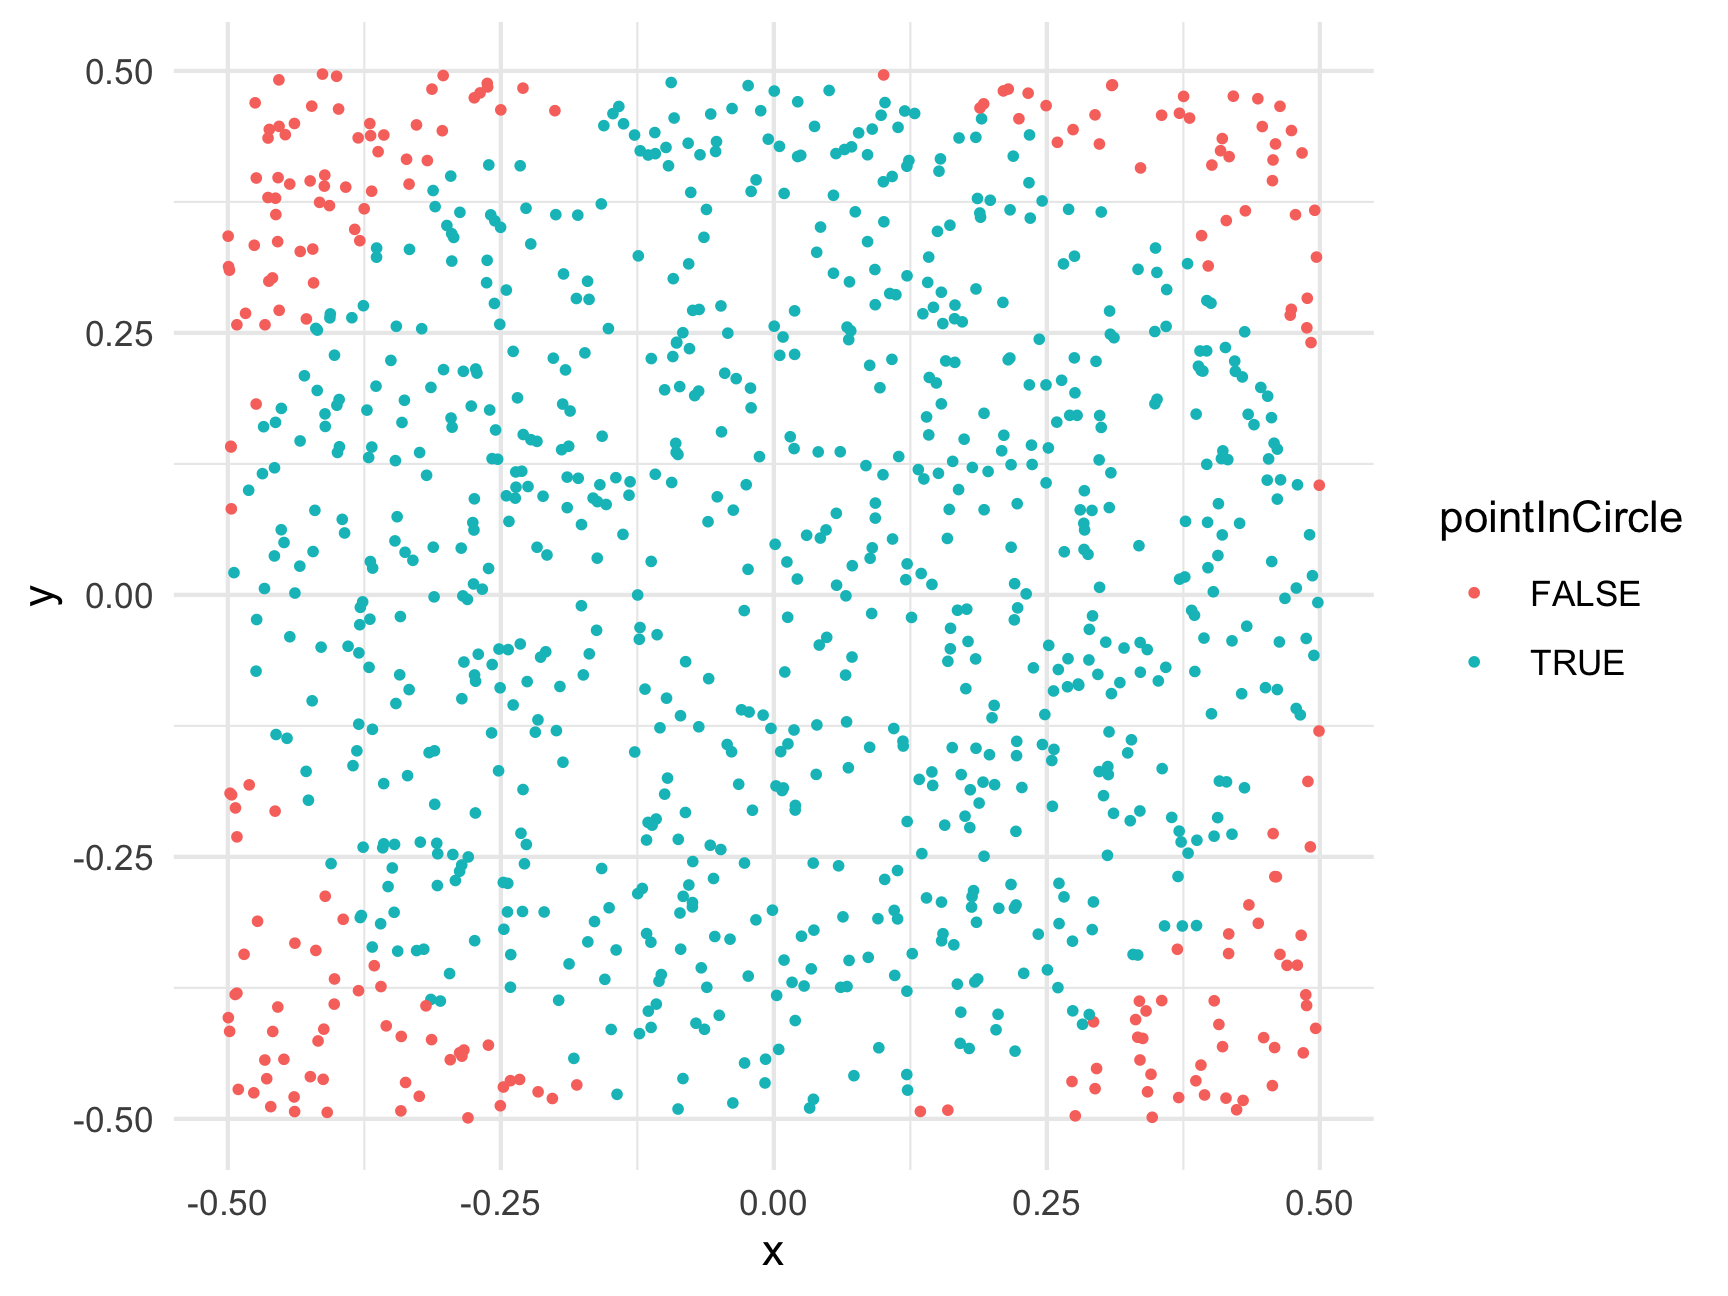
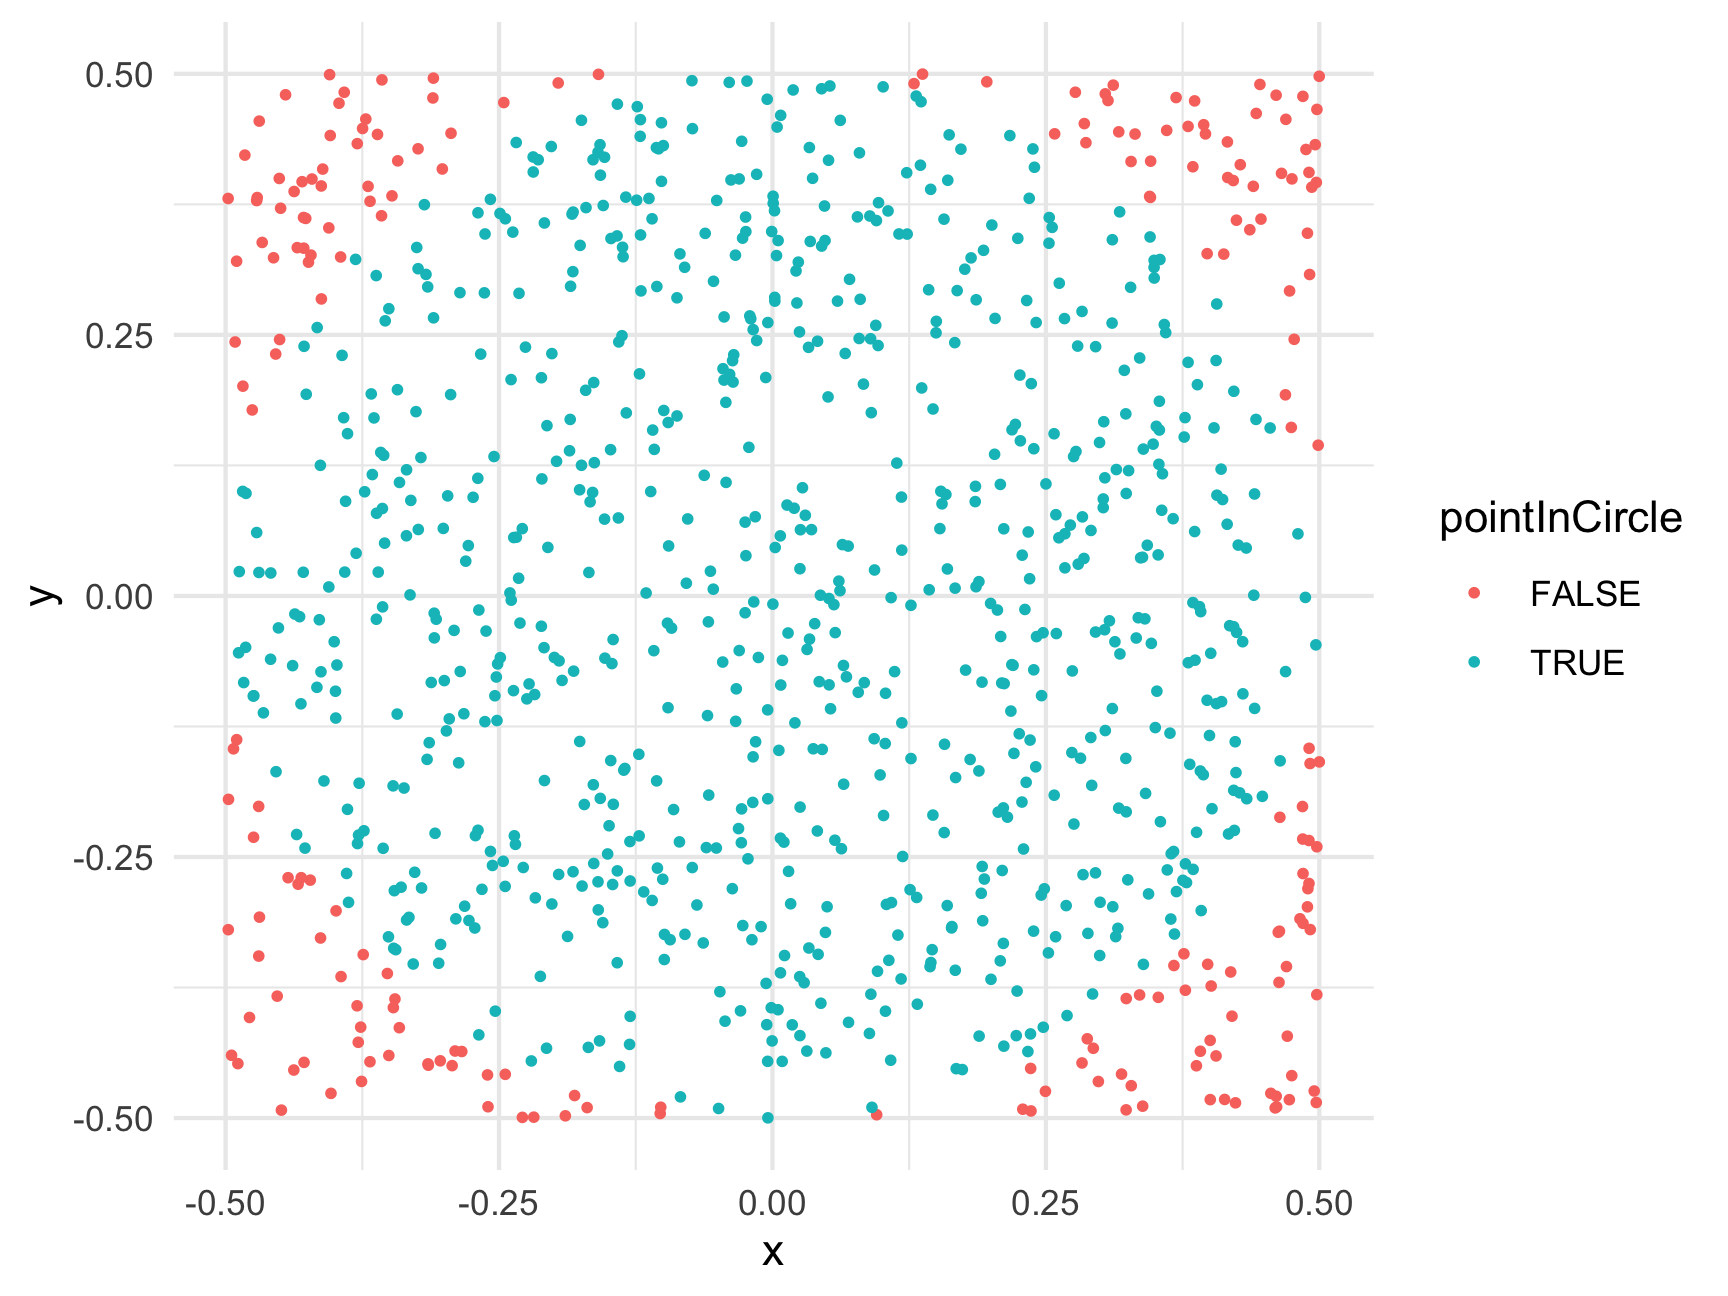
Deploying to gh-pages from  @ 4a662faab6392b8bf058d77fabf5bb0f58b3879d 🚀

diff --git a/r2-functions-packages.html b/r2-functions-packages.html
@@ -763,7 +763,7 @@ div.tocify {
 <p>Here the letters <code>sqrt</code> are short for “square root,” and the value inside the <code>()</code> is the “argument” to the function. In the example above, the value <code>225</code> is the “argument”.</p>
 <p>Keep in mind that not all functions have (or require) arguments:</p>
 <pre class="r"><code>date() # Returns the current date and time</code></pre>
-<pre><code>#&gt; [1] &quot;Thu Jan 27 14:58:43 2022&quot;</code></pre>
+<pre><code>#&gt; [1] &quot;Thu Jan 27 20:18:46 2022&quot;</code></pre>
 <p>(the date above is the date this page was last built)</p>
 <div id="multiple-arguments" class="section level2">
 <h2>Multiple arguments</h2>
@@ -981,9 +981,9 @@ library(packagename)   # This also works</code></pre>
 <p>Now that you have the package installed on your computer, try loading it using <code>library(wikifacts)</code>, then trying using some of it’s functions:</p>
 <pre class="r"><code>library(wikifacts) # Load the library</code></pre>
 <pre class="r"><code>wiki_randomfact()</code></pre>
-<pre><code>#&gt; [1] &quot;Did you know that on November 15 in 1943 – The Holocaust: Heinrich Himmler ordered that Romanies were to be put \&quot;on the same level as Jews and placed in concentration camps\&quot;. (Courtesy of Wikipedia)&quot;</code></pre>
+<pre><code>#&gt; [1] &quot;Here&#39;s some news from 22 September 2020. In golf, Bryson DeChambeau wins the U.S. Open. (Courtesy of Wikipedia)&quot;</code></pre>
 <pre class="r"><code>wiki_didyouknow()</code></pre>
-<pre><code>#&gt; [1] &quot;Did you know that minutes after a world record was set for Super Mario World, SethBling completed a faster run, validating a technique used previously only on an emulator? (Courtesy of Wikipedia)&quot;</code></pre>
+<pre><code>#&gt; [1] &quot;Did you know that James Kaliokalani and his brother, the future King Kalākaua, reportedly witnessed the execution of their grandfather Kamanawa II when they were children? (Courtesy of Wikipedia)&quot;</code></pre>
 <p>In case you’re wondering, the only thing this package does is generate messages containing random facts from <a href="https://www.wikipedia.org/">Wikipedia</a>.</p>
 </div>
 <div id="using-only-some-package-functions" class="section level2">
@@ -994,7 +994,7 @@ library(packagename)   # This also works</code></pre>
 </blockquote>
 <p>Here I use the name of the <em>package</em> followed by <code>::</code> to tell R that I’m looking for a function that is in that package. For example, if I didn’t want to load the whole <strong>wikifacts</strong> library but still wanted to use the <code>wiki_randomfact()</code> function, I could do this:</p>
 <pre class="r"><code>wikifacts::wiki_randomfact()</code></pre>
-<pre><code>#&gt; [1] &quot;Did you know that on July 10 in 1806 – Indian sepoys mutinied against the East India Company when they broke into Vellore Fort and killed or injured 200 British troops. (Courtesy of Wikipedia)&quot;</code></pre>
+<pre><code>#&gt; [1] &quot;Did you know that Herbert L. Packer proposed two models for the US criminal justice system, crime control and due process, which became influential in criminal policy debates? (Courtesy of Wikipedia)&quot;</code></pre>
 <p>Where this is particularly handy is when two packages have a function with the same name. If you load both library, R might not know which function to use. In those cases, it’s best to also provide the <strong>package</strong> name. For example, let’s say there was a package called <strong>apples</strong> and another called <strong>bananas</strong>, and each had a function named <code>fruitName()</code>. If I wanted to use each of them in my code, I would need to specify the package names like this:</p>
 <pre class="r"><code>apples::fruitName()
 bananas::fruitName()</code></pre>

diff --git a/r13-monte-carlo-methods.html b/r13-monte-carlo-methods.html
@@ -805,11 +805,11 @@ ratio &lt;- sum(belowCurve) / numTrials
 totalArea &lt;- (7 - 3) * 7^2 # Rectangle length x height = 196
 areaUnderCurve &lt;- ratio * totalArea
 areaUnderCurve</code></pre>
-<pre><code>#&gt; [1] 105.7734</code></pre>
-<p>So, using Monte Carlo simulation with 100,000 points, we estimate that the area under the curve is 105.77336. How’d we do? Well, if you’re familiar with calculus, the integral of <span class="math inline">\(f(x) = x^2\)</span> has a closed-form solution (<span class="math inline">\(\frac{x^3}{3} + C\)</span>), so we can check our estimate against the pure-math solution:</p>
+<pre><code>#&gt; [1] 105.5578</code></pre>
+<p>So, using Monte Carlo simulation with 100,000 points, we estimate that the area under the curve is 105.55776. How’d we do? Well, if you’re familiar with calculus, the integral of <span class="math inline">\(f(x) = x^2\)</span> has a closed-form solution (<span class="math inline">\(\frac{x^3}{3} + C\)</span>), so we can check our estimate against the pure-math solution:</p>
 <p><span class="math display">\[\int_{3}^{7} x^2 \mathrm{dx} = \left ( \frac{x^3}{3} \right ) \Big|_3^7 = \frac{7^3}{3} - \frac{3^3}{3} = 105.33\bar{3}\]</span></p>
-<p>So our estimate error is: <code>105.333 -</code> <code>105.77336</code> <code>=</code> <code>-0.4400267</code>.</p>
-<p>That’s an error of just 0.42 % - not bad!</p>
+<p>So our estimate error is: <code>105.333 -</code> <code>105.55776</code> <code>=</code> <code>-0.2244267</code>.</p>
+<p>That’s an error of just 0.21 % - not bad!</p>
 <hr />
 </div>
 <div id="monte-carlo-pi" class="section level1">
@@ -839,13 +839,13 @@ points &lt;- data.frame(
     x = runif(numTrials, -0.5, 0.5),
     y = runif(numTrials, -0.5, 0.5))
 head(points)</code></pre>
-<pre><code>#&gt;             x           y
-#&gt; 1  0.26890061 -0.08769643
-#&gt; 2 -0.23220206 -0.04687379
-#&gt; 3 -0.24497737  0.29088901
-#&gt; 4  0.06328917 -0.30723787
-#&gt; 5  0.18860612  0.36441525
-#&gt; 6  0.34194696 -0.05218994</code></pre>
+<pre><code>#&gt;             x            y
+#&gt; 1  0.48461547 -0.201661299
+#&gt; 2 -0.31578693 -0.156516771
+#&gt; 3  0.06200852  0.455441369
+#&gt; 4  0.10847699 -0.001622241
+#&gt; 5 -0.18553606  0.139020646
+#&gt; 6 -0.02500929 -0.016119518</code></pre>
 <p>For this example, we’re putting the points in a data frame to make it easier to work with. Now that we have random x and y points, let’s compute the radius to each point (the distance from <code>(x, y) = (0, 0)</code>) so we can determine which points fall inside the circle (which has a radius of 0.5):</p>
 <pre class="r"><code>library(dplyr)
 points &lt;- points %&gt;%
@@ -876,13 +876,13 @@ points &lt;- data.frame(
 ratio &lt;- sum(points$pointInCircle) / nrow(points)
 piApprox &lt;- 4 * ratio
 piApprox</code></pre>
-<pre><code>#&gt; [1] 3.13676</code></pre>
+<pre><code>#&gt; [1] 3.13668</code></pre>
 <pre class="r"><code># Compute error:
 error &lt;- piApprox - pi
 percentError &lt;- round(100*abs(error / pi), 2)
 percentError</code></pre>
-<pre><code>#&gt; [1] 0.15</code></pre>
-<p>By increasing the number of trials from 1,000 to 100,000, we improved our estimate error from 0.05 % to 0.15 %!</p>
+<pre><code>#&gt; [1] 0.16</code></pre>
+<p>By increasing the number of trials from 1,000 to 100,000, we improved our estimate error from 0.05 % to 0.16 %!</p>
 <hr />
 <p><strong>Page sources</strong>:</p>
 <p>Some content on this page has been modified from other courses, including:</p>
